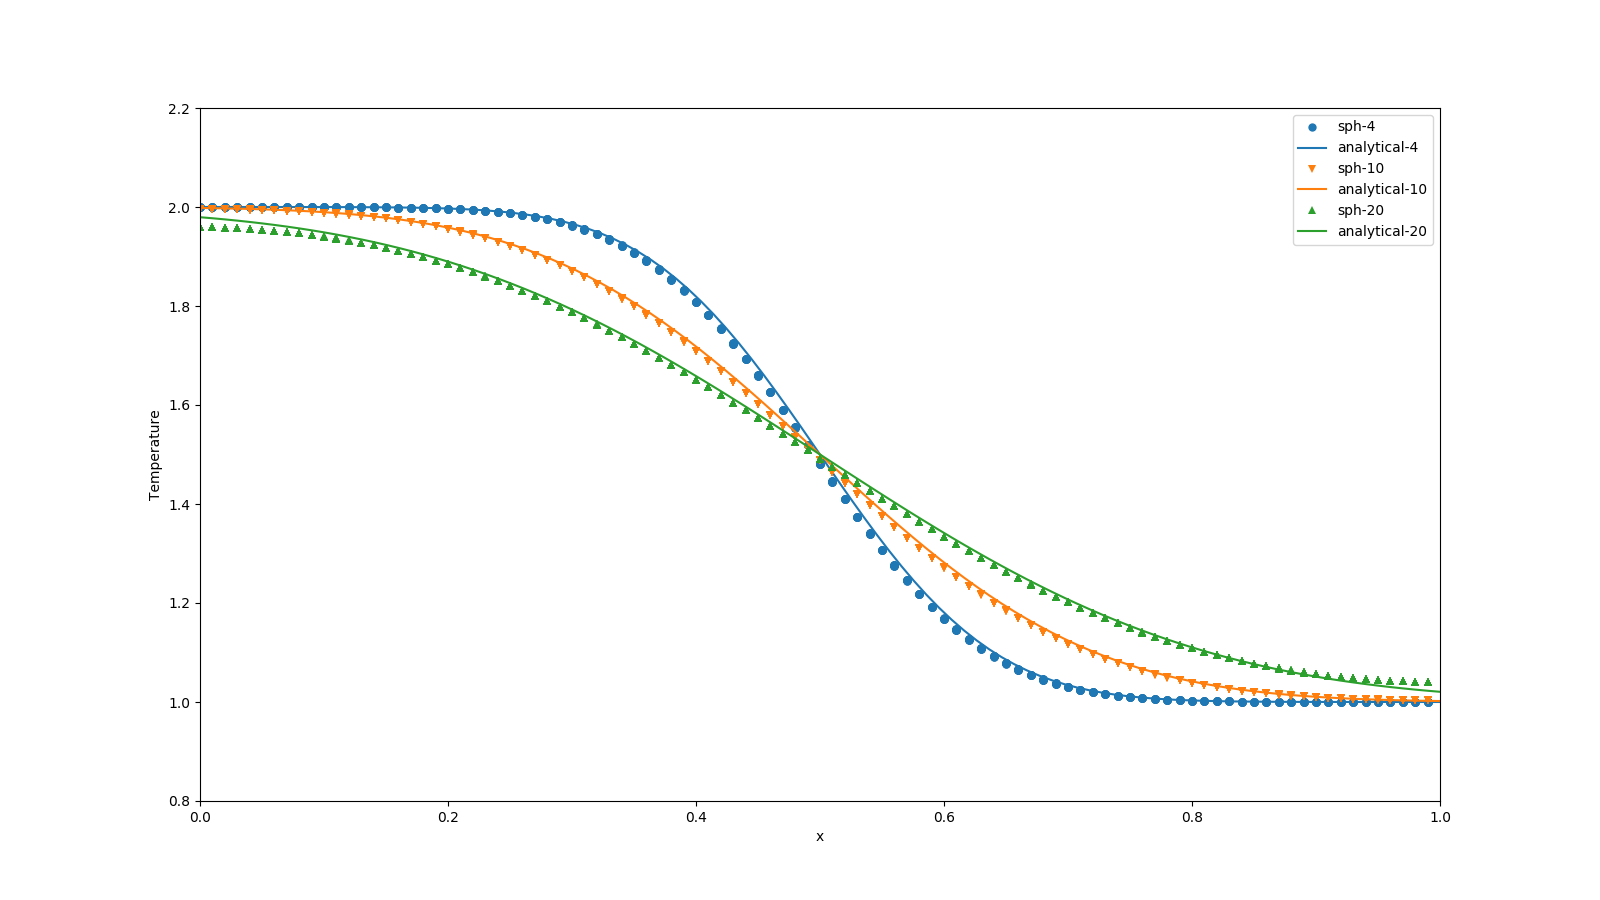
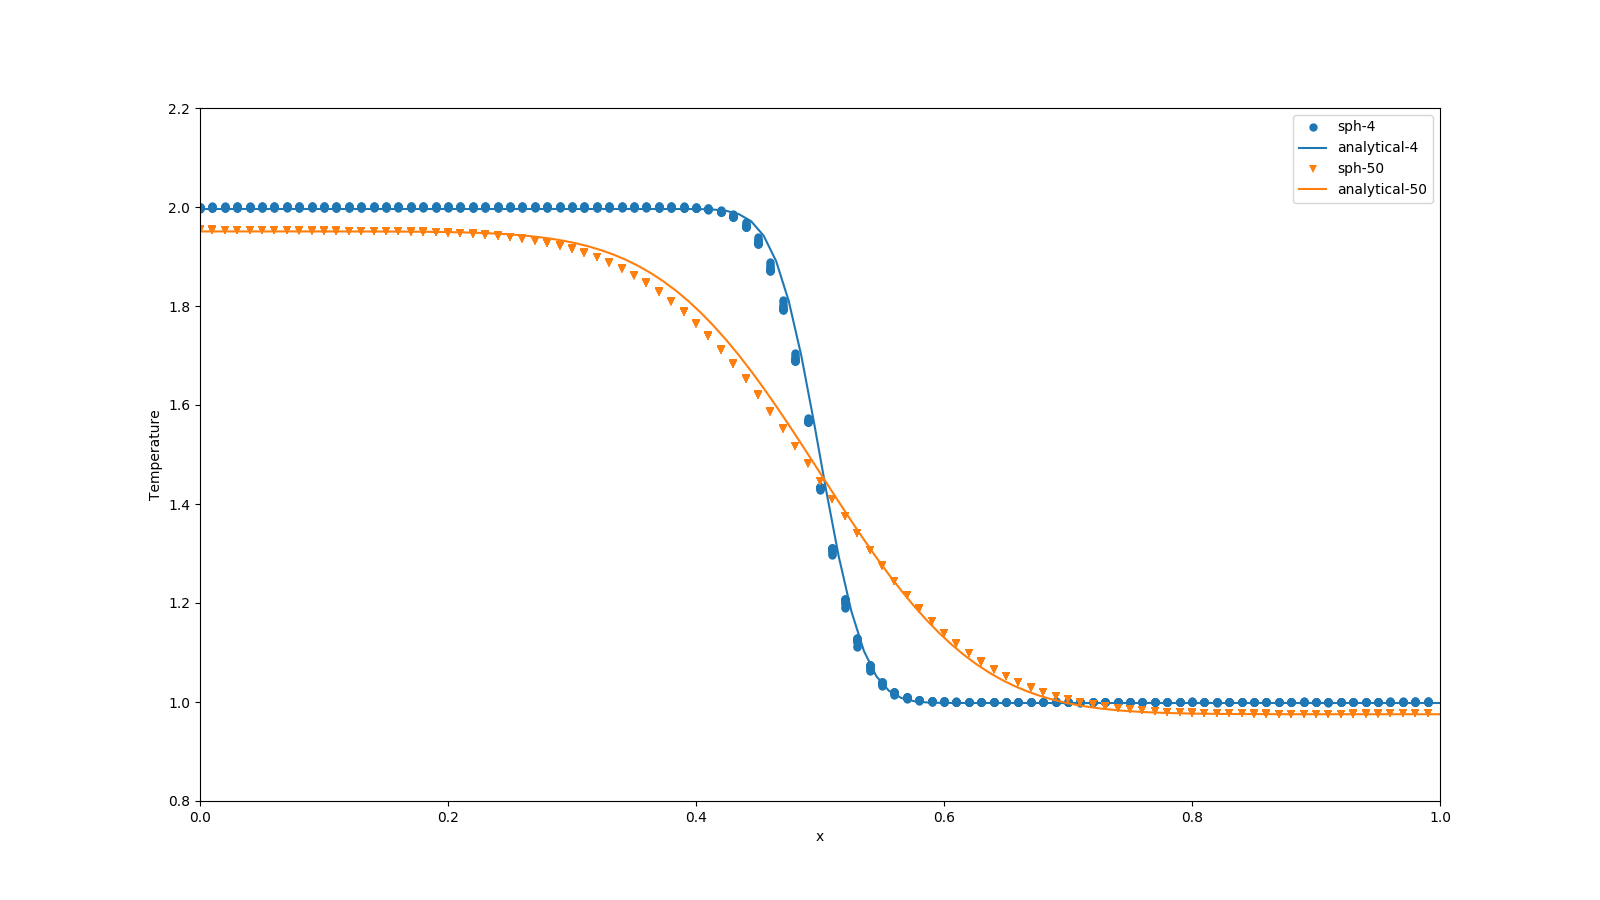
Add decay rate

diff --git a/concentration_diffusion/plot_graph.py b/concentration_diffusion/plot_graph.py
@@ -4,7 +4,8 @@ import matplotlib.pyplot as plt
 import itertools
 
 # parameters
-alpha = 15.0e-4
+alpha = 1.0e-4
+K = 5.0e-4
 el    = 2.0
 er    = 1.0
 
@@ -14,7 +15,7 @@ Lx = 1.0
 xc = 0.5*Lx
 
 # Time series
-T = [4, 10, 20]
+T = [4, 50]
 
 # plot
 plt.figure(figsize=(16, 9))
@@ -27,8 +28,9 @@ marker = itertools.cycle(('o', 'v', '^', '<', '>', 's', '8', 'p'))
 for time in T:
     # analytical solution
     x = np.linspace(0.0, 1.0, 100)
-    e_analytic = 0.5*(er + el) + 0.5*(er - el)*special.erf((x-xc)/np.sqrt(4*alpha*time))
-
+    e_analytic = 0.5*(el+er) + 0.5*(er - el)*special.erf((x-xc)/np.sqrt(4*alpha*time))
+    e_analytic = np.exp(-K*time)*e_analytic
+    
     # read data from output
     data = np.loadtxt("dump_{}.last.xs".format(time), skiprows=9)
 
